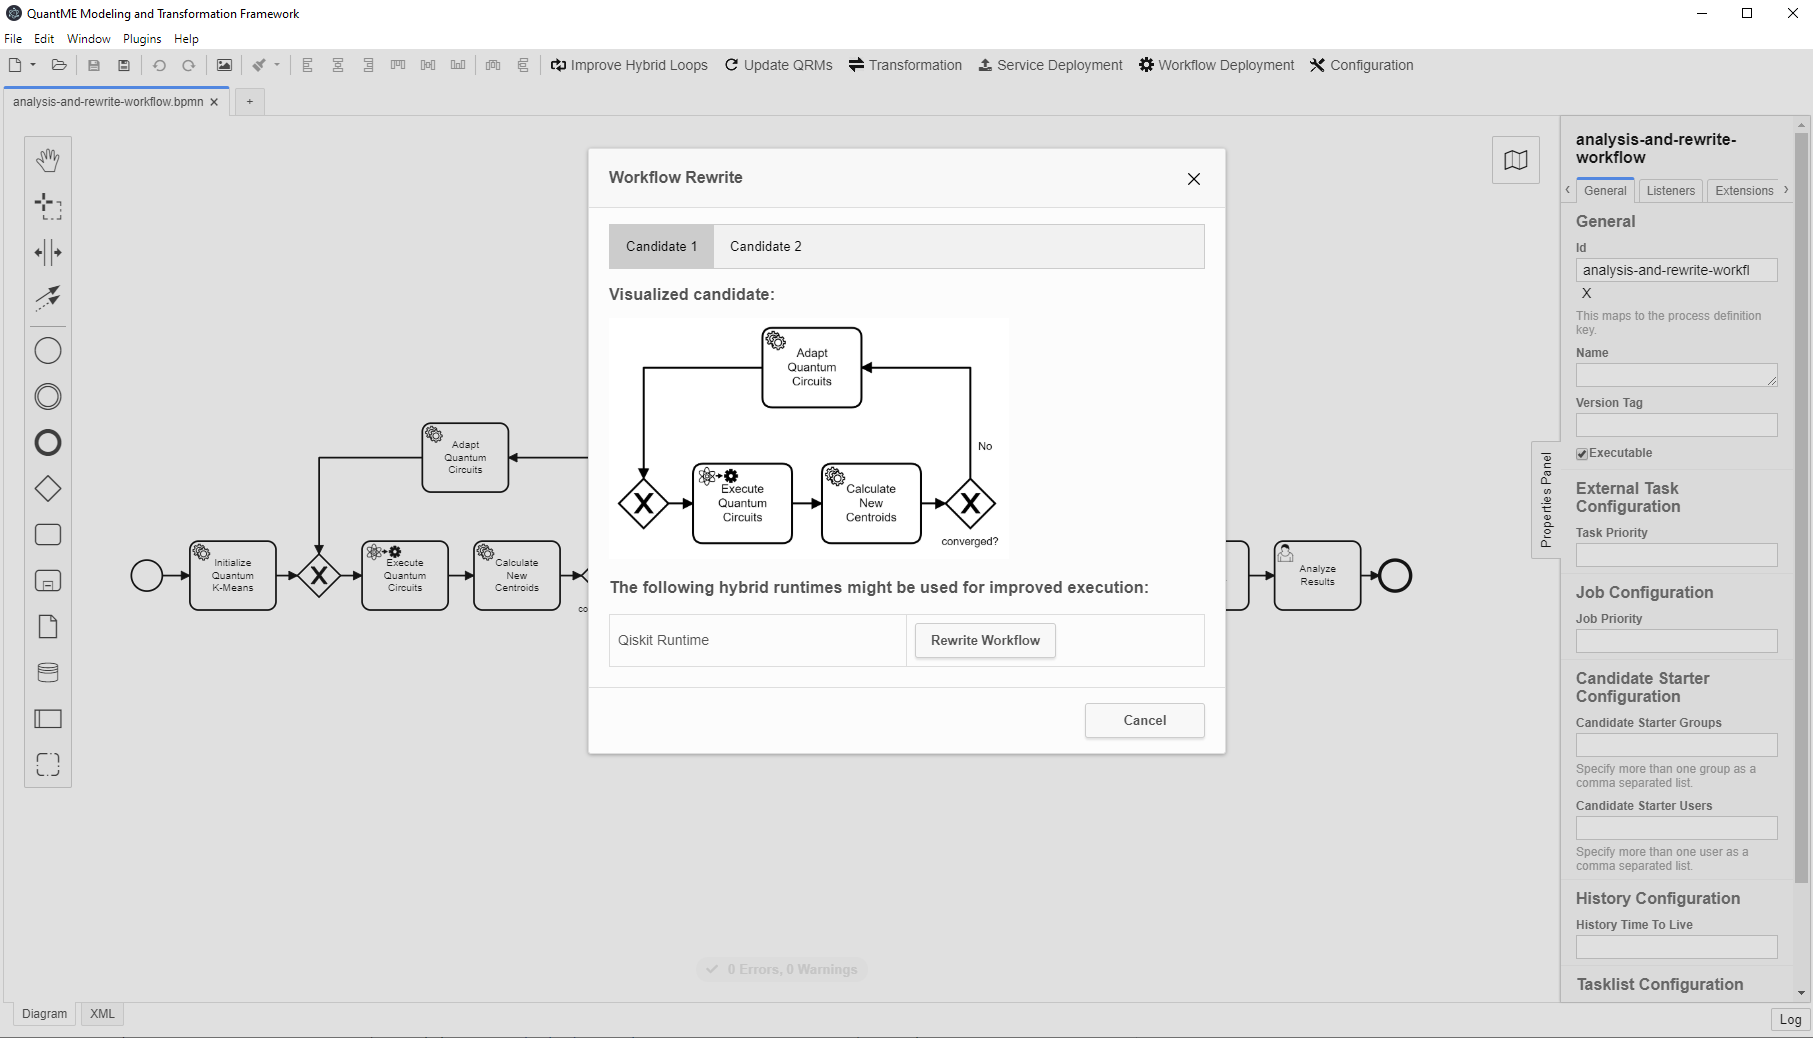
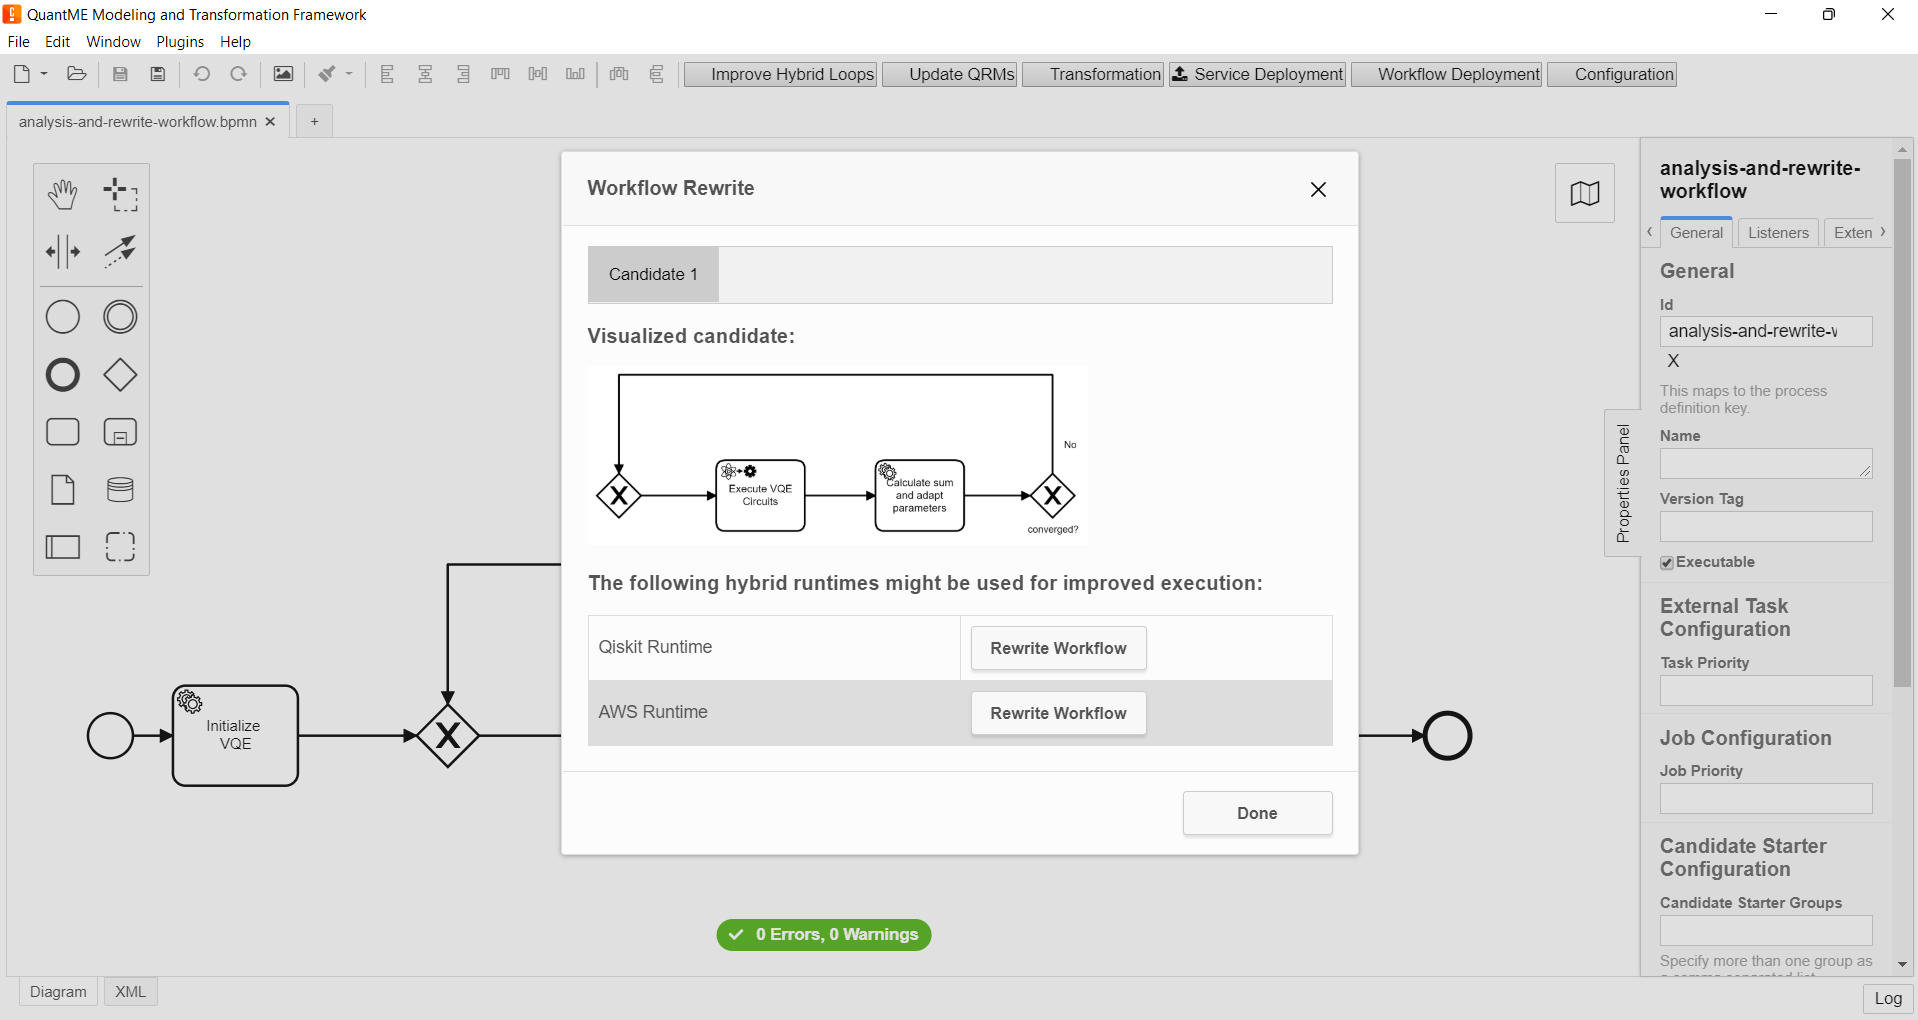
update images and add descriptions

diff --git a/2022-bachelorthesis/README.md b/2022-bachelorthesis/README.md
@@ -37,7 +37,7 @@ docker-compose up --build
 
 To start the QuantME Transformation Framework, please execute the following steps:
 
-1. Clone the repository using release v1.4.0: 
+1. Clone the repository using release v1.7.0: 
 ```
 git clone https://github.com/UST-QuAntiL/QuantME-TransformationFramework.git --branch v1.7.0
 ```
@@ -97,13 +97,8 @@ When the analysis finishes, the possible optimization candidates are visualized 
 
 ![Workflow Rewrite Modal Candidate 1](./docs/workflow-rewrite-modal-1.png)
 
-In our example workflow, two optimization candidates are detected, one performing the clustering, and the second comprising the classification tasks.
-The tabs on the top of the modal can be used to switch between the visualization of all detected optimization candidates:
-
-![Workflow Rewrite Modal Candidate 2](./docs/workflow-rewrite-modal-2.png)
-
 Furthermore, a list of supported hybrid runtimes is displayed in the table below.
-Currently, only the Qiskit Runtime is supported.
+Currently, the Qiskit Runtime and the AWS Runtime are supported.
 Click on the ``Rewrite Workflow`` button to analyze if the selected hybrid runtime supports the current candidate.
 If yes, a hybrid program, as well as a corresponding deployment model, are automatically generated for the candidate.
 Finally, the workflow is rewritten to invoke the generated hybrid program.
@@ -194,10 +189,9 @@ Click on the corresponding workflow instance at the bottom, to view more details
 ## Troubleshooting
 
 Amazon Braket Hybrid Jobs is currently [based on the latest version](https://quantum-computing.ibm.com/lab/docs/iql/runtime/start).
-This means, also the generated hybrid programs must be compatible with the latest Qiskit version.
-As the hybrid programs are generated from the quantum and classical programs, their used Qiskit version influences the Qiskit version of the hybrid programs.
-Thus, the generated hybrid programs might fail if there are breaking changes in newer Qiskit versions.
-The provided programs are based on version 0.33.1, please visit the [Qiskit release page](https://pypi.org/project/amazon-braket-sdk/) in case you experience any problems, and check for possible changes.
+This means, also the generated hybrid programs must be compatible with the latest version.
+As the hybrid programs are generated from the quantum and classical programs, their used version influences the version of the hybrid programs.
+Thus, the generated hybrid programs might fail if there are breaking changes in newer versions.
 
 The setup starts overall 9 Docker containers, and the required services are deployed within one of these containers using so-called [Docker-in-Docker (dind)](https://github.com/jpetazzo/dind).
 Thus, if the startup of the Docker-Compose file or the deployment of the services fails, please make sure to provide enough resources to the docker engine, i.e., CPU, main memory, and disk space.

diff --git a/2022-bachelorthesis/docker/initialized-winery/tosca-definitions/artifacttemplates/http%3A%2F%2Fopentosca.org%2Fartifacttemplates/KMeansExecutorServiceContainer_DA/README.md b/2022-bachelorthesis/docker/initialized-winery/tosca-definitions/artifacttemplates/http%3A%2F%2Fopentosca.org%2Fartifacttemplates/KMeansExecutorServiceContainer_DA/README.md
@@ -2,7 +2,7 @@
 
 ## Haftungsausschluss
 
-Dies ist ein Forschungsprototyp und enthält insbesondere Beiträge von Studenten.
+Dies ist ein Forschungsprototyp und enthält insbesondere Beiträge von Studenten und ist adaptiert worden basierend auf der Implementierung [GitHub](https://github.com/DavitKhach/quantum-algorithms-tutorials/blob/master/variational_quantum_eigensolver.ipynb).
 Diese Software enthält möglicherweise Fehler und funktioniert möglicherweise, insbesondere bei variierten oder neuen Anwendungsfällen, nicht richtig.
 Insbesondere beim Produktiveinsatz muss 1. die Funktionsfähigkeit geprüft und 2. die Einhaltung sämtlicher Lizenzen geprüft werden.
 Die Haftung für entgangenen Gewinn, Produktionsausfall, Betriebsunterbrechung, entgangene Nutzungen, Verlust von Daten und Informationen, Finanzierungsaufwendungen sowie sonstige Vermögens- und Folgeschäden ist, außer in Fällen von grober Fahrlässigkeit, Vorsatz und Personenschäden ausgeschlossen.

diff --git a/2022-bachelorthesis/docker/initialized-winery/tosca-definitions/artifacttemplates/http%3A%2F%2Fopentosca.org%2Fartifacttemplates/KMeansAdaptationServiceContainer_DA/README.md b/2022-bachelorthesis/docker/initialized-winery/tosca-definitions/artifacttemplates/http%3A%2F%2Fopentosca.org%2Fartifacttemplates/KMeansAdaptationServiceContainer_DA/README.md
@@ -2,7 +2,7 @@
 
 ## Haftungsausschluss
 
-Dies ist ein Forschungsprototyp und enthält insbesondere Beiträge von Studenten.
+Dies ist ein Forschungsprototyp und enthält insbesondere Beiträge von Studenten und ist adaptiert worden von der Implementierung aus [GitHub](https://github.com/fchollet/nelder-mead).
 Diese Software enthält möglicherweise Fehler und funktioniert möglicherweise, insbesondere bei variierten oder neuen Anwendungsfällen, nicht richtig.
 Insbesondere beim Produktiveinsatz muss 1. die Funktionsfähigkeit geprüft und 2. die Einhaltung sämtlicher Lizenzen geprüft werden.
 Die Haftung für entgangenen Gewinn, Produktionsausfall, Betriebsunterbrechung, entgangene Nutzungen, Verlust von Daten und Informationen, Finanzierungsaufwendungen sowie sonstige Vermögens- und Folgeschäden ist, außer in Fällen von grober Fahrlässigkeit, Vorsatz und Personenschäden ausgeschlossen.
